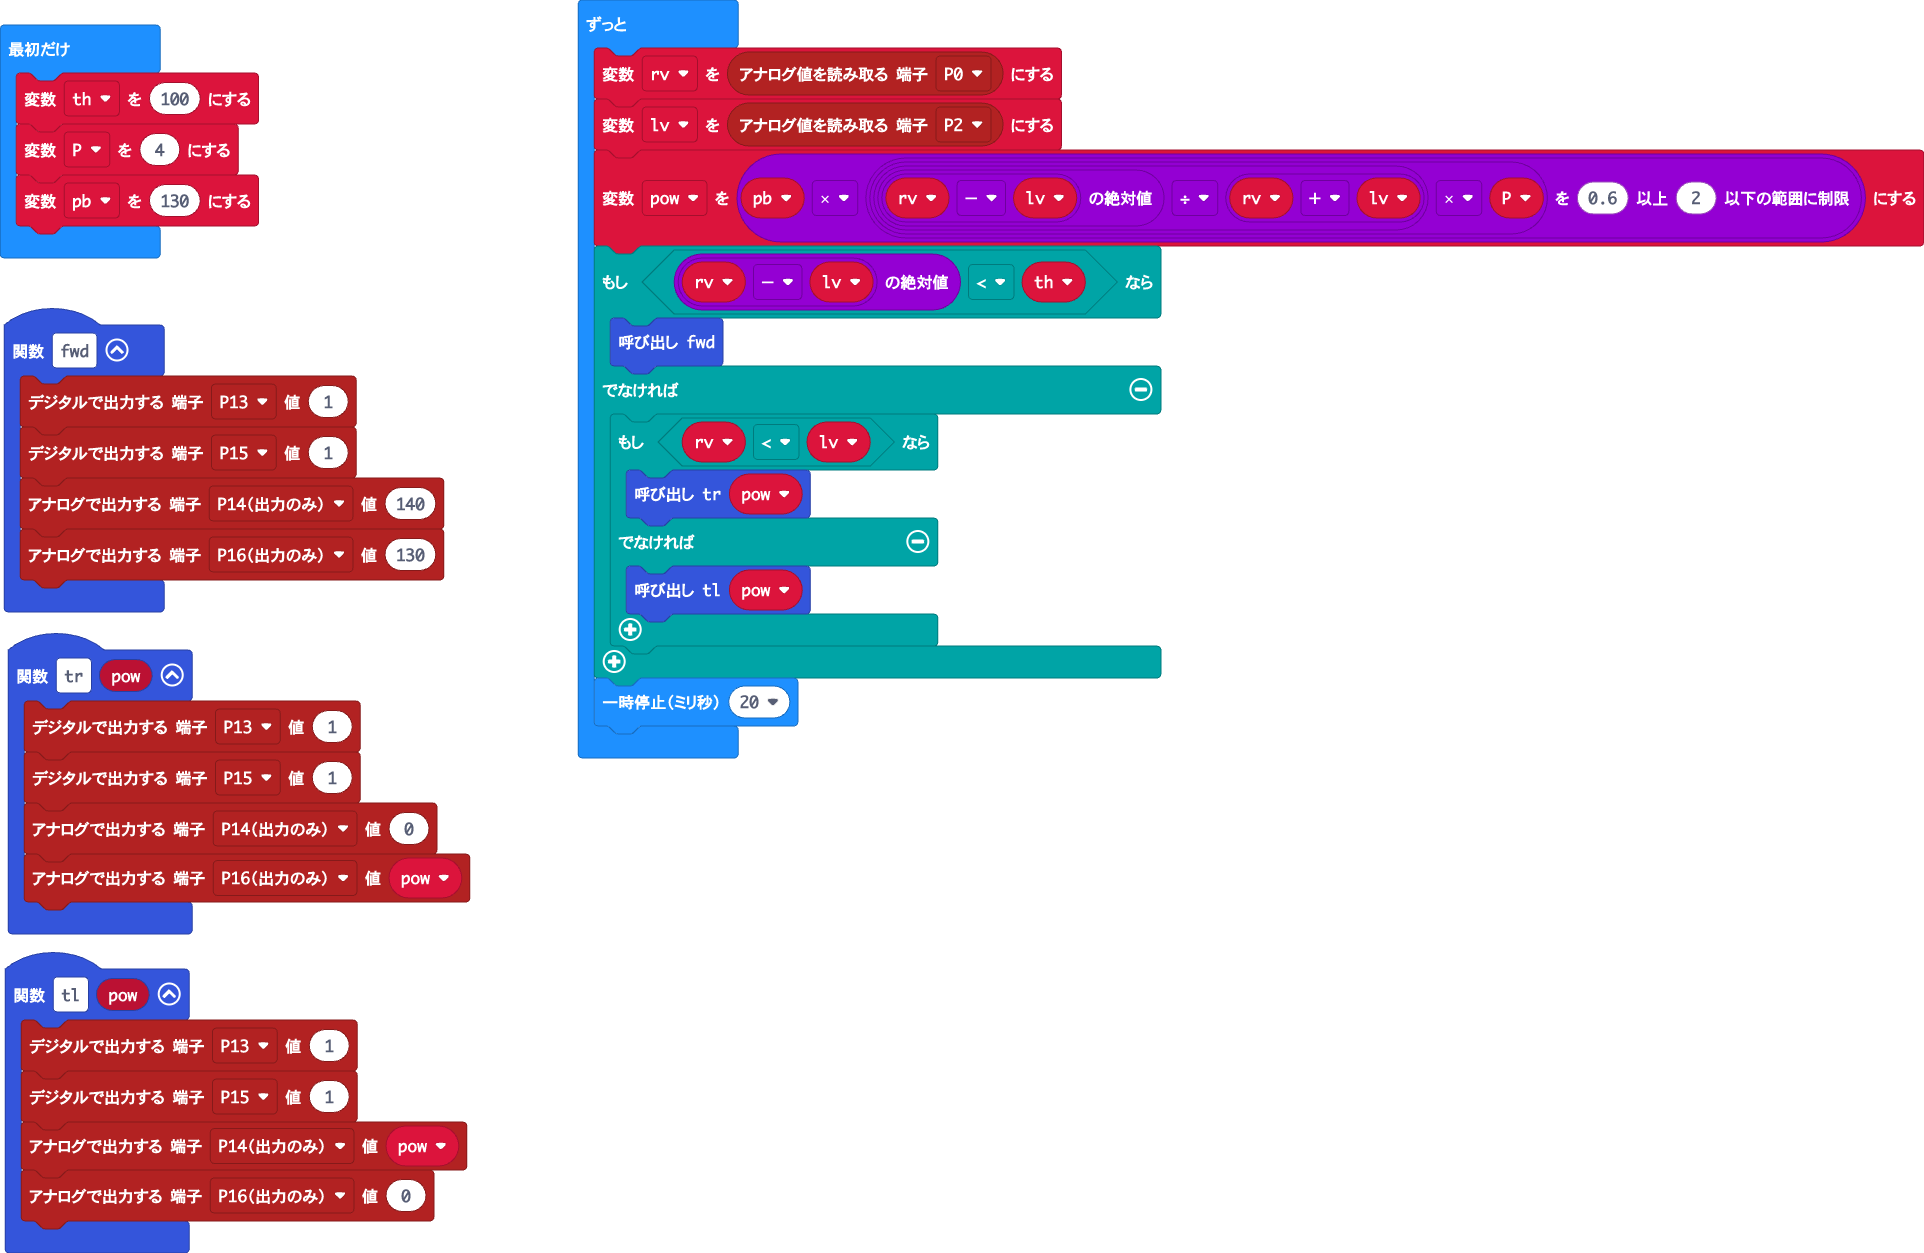
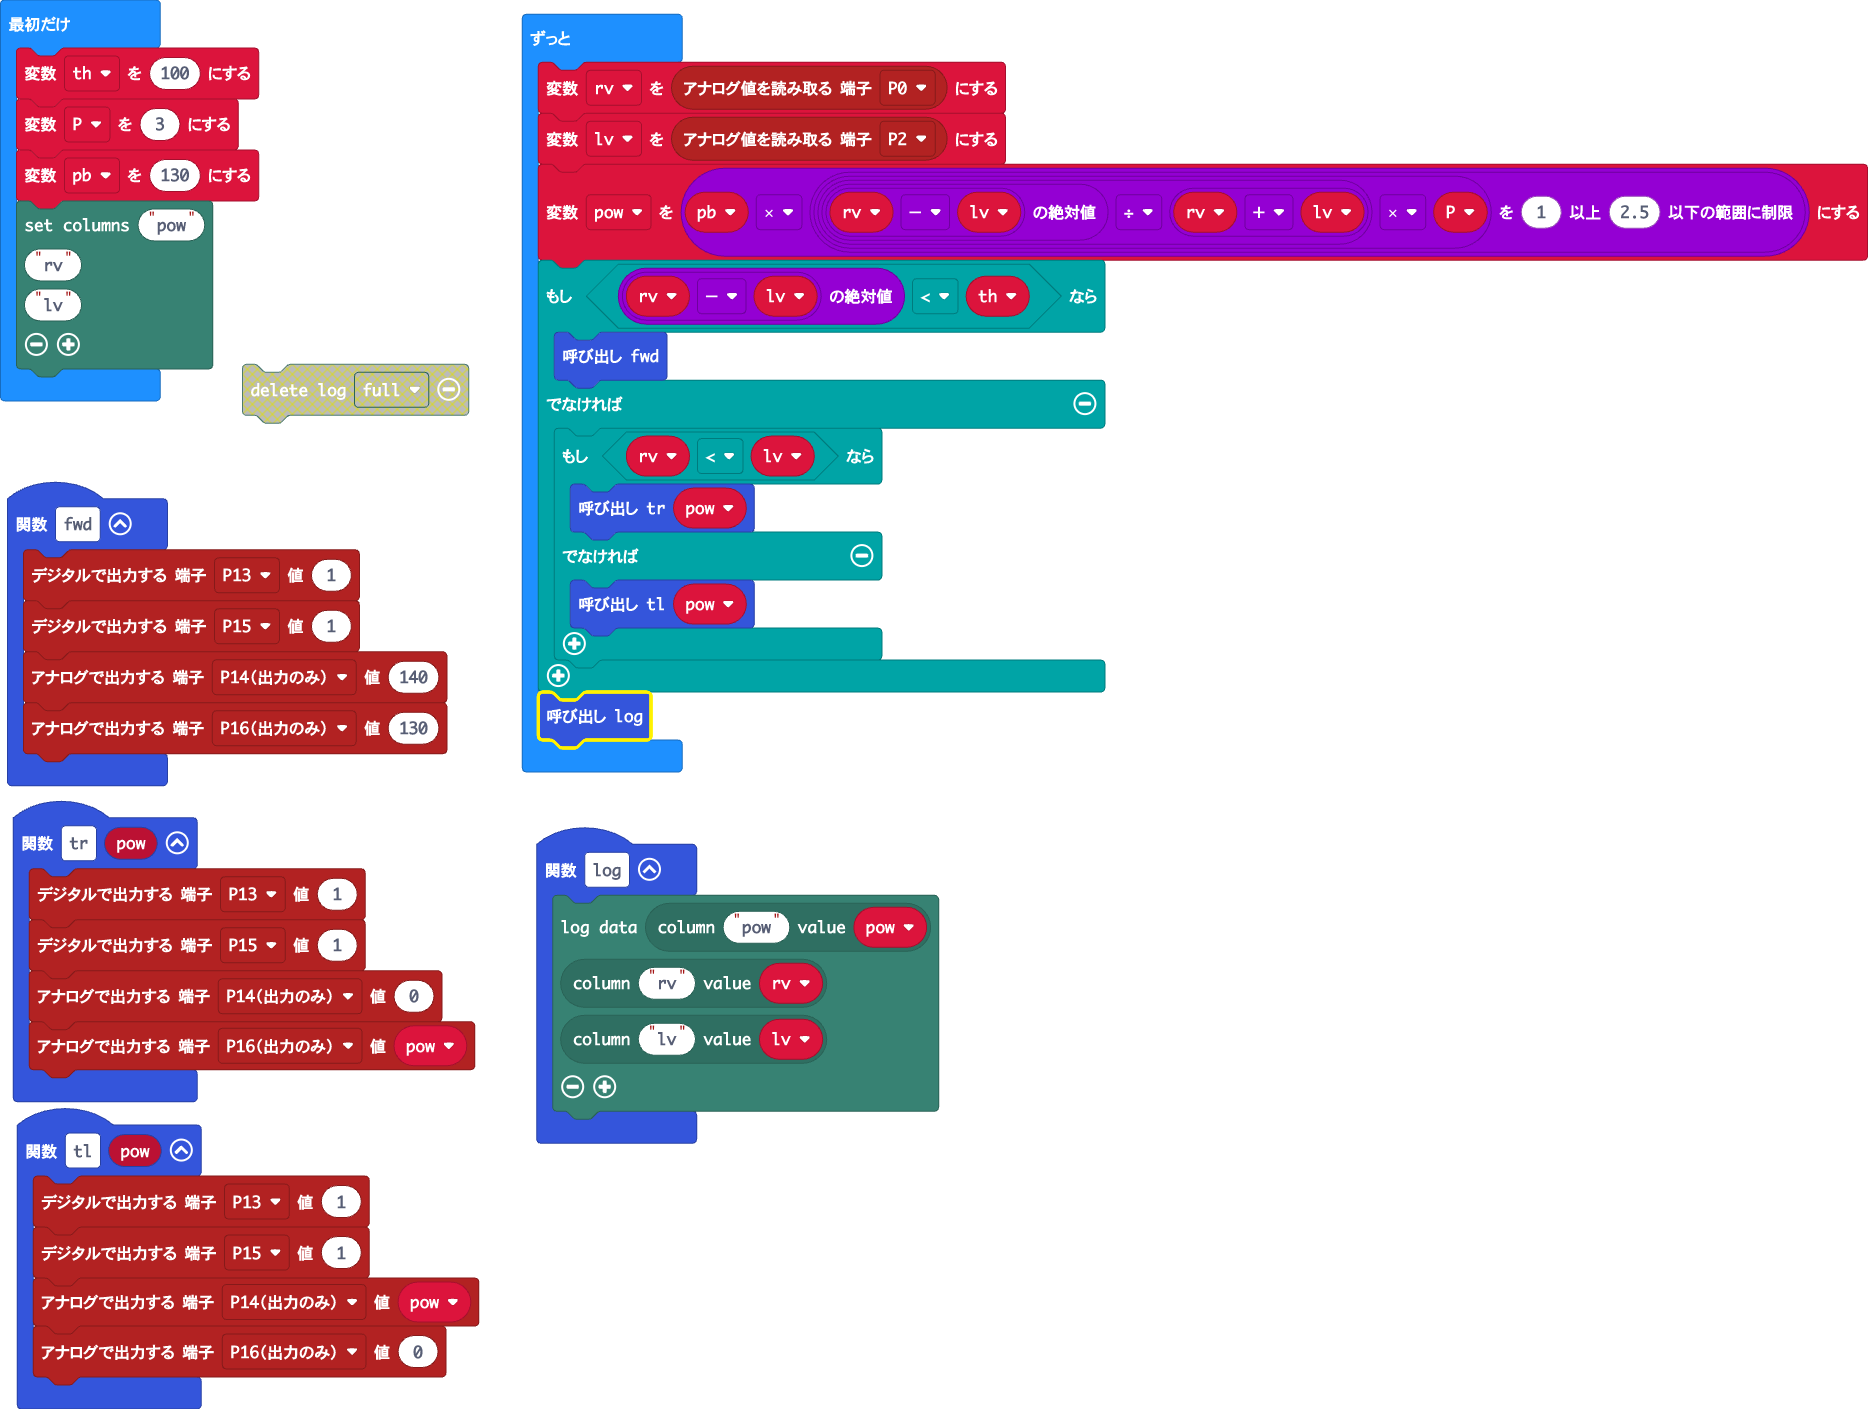
to add logging to the flash memory

Changed region(s): [[0.0, 0.0, 1.0, 1.0]]

diff --git a/main.ts b/main.ts
@@ -10,6 +10,13 @@ function tr (pow: number) {
     pins.analogWritePin(AnalogPin.P14, 0)
     pins.analogWritePin(AnalogPin.P16, pow)
 }
+function log () {
+    datalogger.log(
+    datalogger.createCV("pow", pow),
+    datalogger.createCV("rv", rv),
+    datalogger.createCV("lv", lv)
+    )
+}
 function tl (pow: number) {
     pins.digitalWritePin(DigitalPin.P13, 1)
     pins.digitalWritePin(DigitalPin.P15, 1)
@@ -20,12 +27,17 @@ let lv = 0
 let rv = 0
 let pow = 0
 let th = 100
-let P = 4
+let P = 3
 let pb = 130
+datalogger.setColumnTitles(
+"pow",
+"rv",
+"lv"
+)
 basic.forever(function () {
     rv = pins.analogReadPin(AnalogPin.P0)
     lv = pins.analogReadPin(AnalogPin.P2)
-    pow = pb * Math.constrain(Math.abs(rv - lv) / (rv + lv) * P, 0.6, 2)
+    pow = pb * Math.constrain(Math.abs(rv - lv) / (rv + lv) * P, 1, 2.5)
     if (Math.abs(rv - lv) < th) {
         fwd()
     } else {
@@ -35,5 +47,5 @@ basic.forever(function () {
             tl(pow)
         }
     }
-    basic.pause(20)
+    log()
 })
